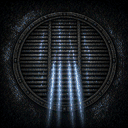
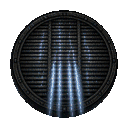
Sewer: the camp above is not heard down the shaft; the street grate in a crown is round
- R64: underground only the OutdoorAmbience bus was turned down; the camp's sounds that
  stand somewhere played on (the reception's radio through its walls at -14 dB, the
  pylons, the corn, the 380 idling, guests and whatever walks over the manhole). Down
  the shaft the camp viewport's 3D listener is off; the outdoor bus's dull rumble stays.
- R65: the "blue rectangles" on junction ceilings were the street grate (pipe_vibe): its
  picture's dark-blue square glowed whole (emission over the quad). The picture is cut
  round to the grate's ring (alpha scissor) and only its slots glow (emission texture,
  multiply).

diff --git a/TODO.md b/TODO.md
@@ -69,8 +69,8 @@
 - [x] R61 „krev z očí zmizí a stéká pořád dokola: nech ji stéct a zůstat až do healu, pak fade out; PC display je přes tuto krev“
 - [x] R62 „sewers incident (celá minihra) měl být jeden z nočních útoků táty s klukem“ (check the earlier decision: TODO/DESIGN/memory)
 - [x] R63 „u ztracených týpků v kukuřici nech třeba tak každé čtvrté ‚heloooo‘“ (lost guests in the corn: the call far rarer)
-- [ ] R64 „v sewers jsou pořád špatně odhlučněné zvuky zvenčí“
-- [ ] R65 „na nějakých stropech křižovatek v sewers jsou furt modré obdélníky“
+- [x] R64 „v sewers jsou pořád špatně odhlučněné zvuky zvenčí“ (only the outdoor bus was turned down: the camp's sounds that stand somewhere, the radio through the office walls, the pylons, the corn, the bus, guests, played on; down the shaft the camp's listener is off)
+- [x] R65 „na nějakých stropech křižovatek v sewers jsou furt modré obdélníky“ (the street grate in a junction's crown: its picture's square glowed whole; cut round, only its slots glow)
 - [x] R66 „savegame si nepamatuje zapnutý počítač. zkontroluj i coop“ (the save had it, the load never read it: now on at its desktop with its programs, no boot; the monitor's own switch is kept too; joining a camp whose PC is on came up on an empty desktop, now its programs)
 - [x] R67 „karavan nejde otočit o 90 stupňů, pouze 180“ (an oblong building's footprint turns with it now, GridModel.turned: the caravan, the pitch, the bowling stand across on a quarter turn, through upgrades, saves and both Builder views)
 - [x] R68 „přes den pomalá regenerace HP“
